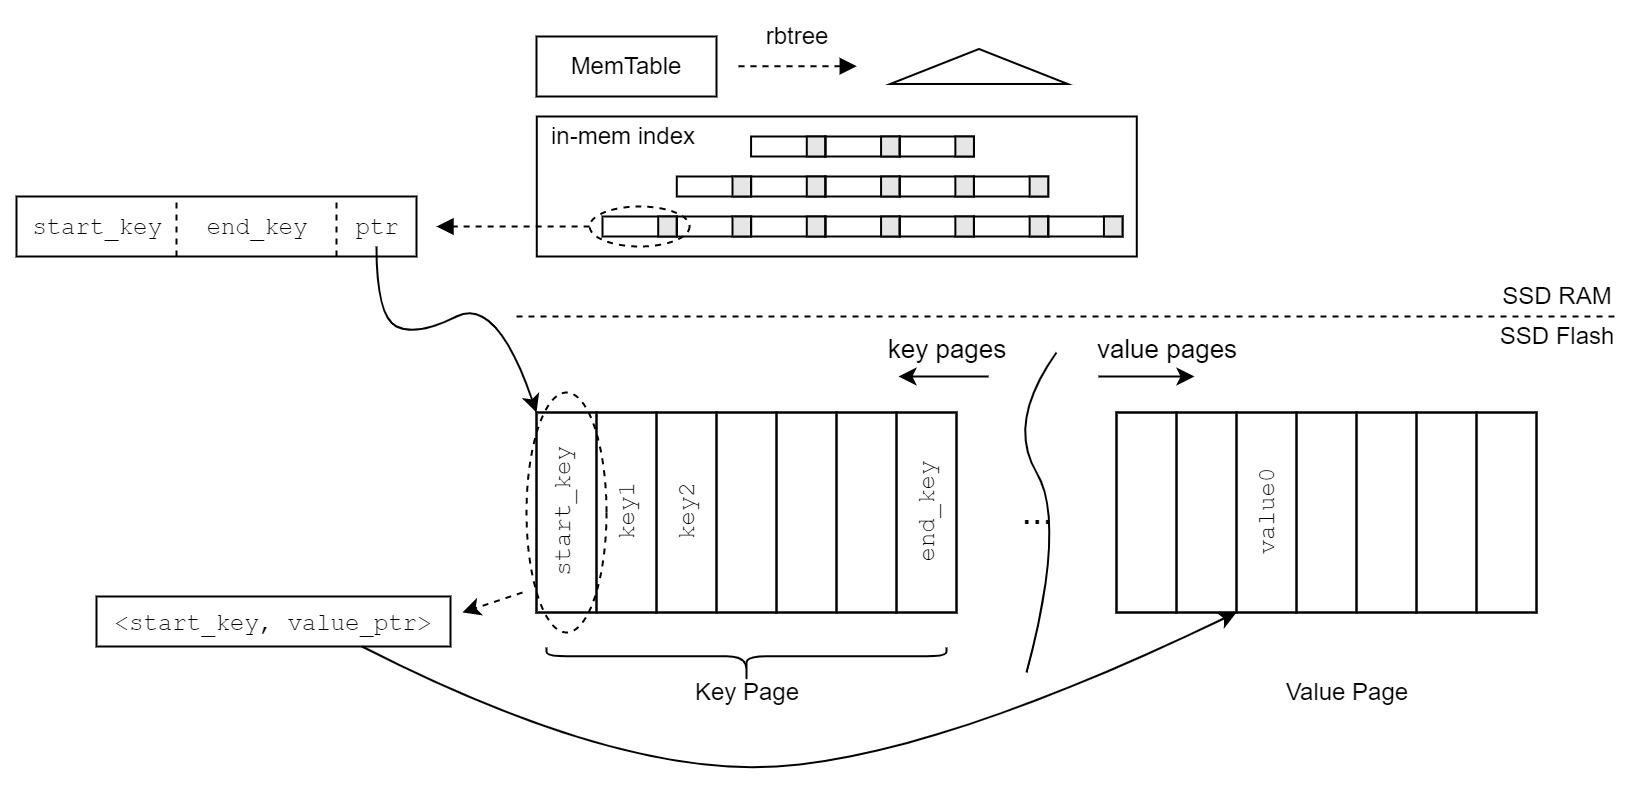
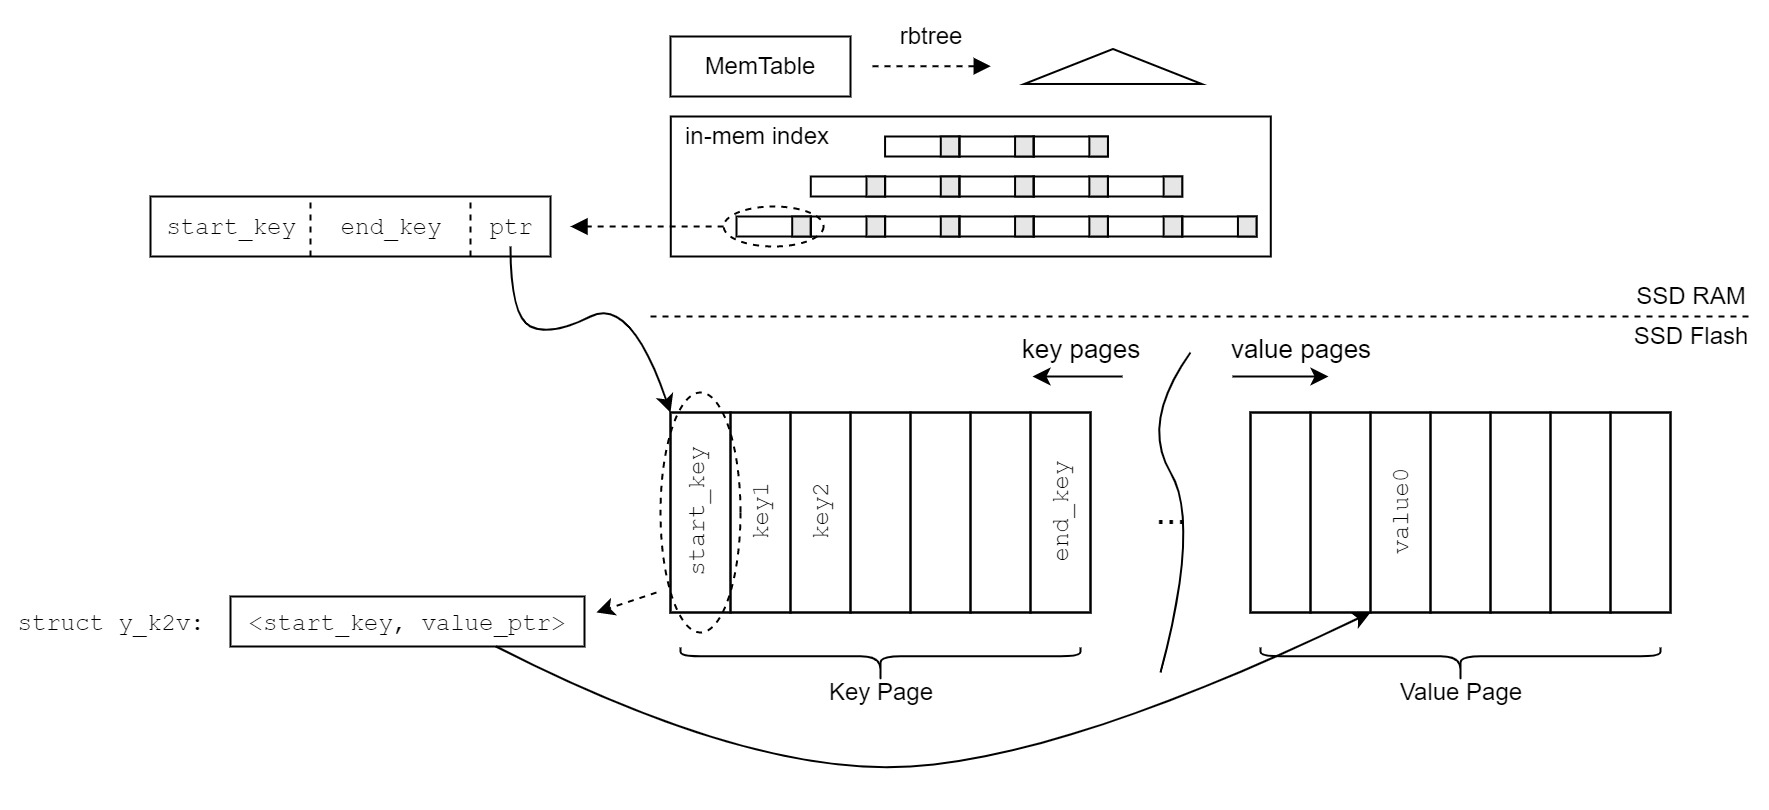
feat: bloom_filter, disk layout
determine the in-storage representation of used data structures

diff --git a/yssd/yssd.c b/yssd/yssd.c
@@ -11,18 +11,19 @@
 #include <linux/rbtree.h>
 #include "types.h"
 
-#ifndef SECTOR_SIZE
-#define SECTOR_SIZE 512
-#endif
-
 #define YSSD_MAJOR 240
 #define YSSD_DEV_NAME "yssd"
 
 static unsigned long n_sectors;
+static unsigned long n_bytes;
+static unsigned long n_pages;
 
 static char* yssd_file = "yssd.data";
 module_param(yssd_file, charp, 0660);
 MODULE_PARM_DESC(yssd_file, "file to be treated as a pseudo ssd");
+
+static struct file* fp;
+static char g_buf[PAGE_SIZE+1];
 
 static struct yssd_block_dev {
     int yssd_number;
@@ -74,6 +75,71 @@ static int y_bio_get_first_block(char* buf, unsigned int max_len, const struct y
     print_y_key(key);
     strcpy(buf, "This is first block.");
     return 0;
+}
+
+static void yssd_read_phys_page(char* buf, unsigned long page_no){
+    loff_t off=page_no*PAGE_SIZE;
+    size_t sz;
+    if(likely(page_no<n_pages)){
+        sz = kernel_read(fp, buf, PAGE_SIZE, &off);
+        if(unlikely(sz != PAGE_SIZE)){
+            pr_warn("kernel_read %ld bytes != PAGE_SIZE\n", sz);
+        }
+        return;
+    } else {
+        pr_warn("page_no %ld >= n_pages(%ld)\n", page_no, n_pages);
+    }
+}
+
+static void yssd_write_phys_page(char* buf, unsigned long page_no){
+    loff_t off=page_no*PAGE_SIZE;
+    size_t sz;
+    if(likely(page_no<n_pages)){
+        sz = kernel_write(fp, buf, PAGE_SIZE, &off);
+        if(unlikely(sz != PAGE_SIZE)){
+            pr_warn("kernel_read %ld bytes != PAGE_SIZE\n", sz);
+        }
+        return;
+    } else {
+        pr_warn("page_no %ld >= n_pages(%ld)\n", page_no, n_pages);
+    }
+}
+
+static int yssd_load_file(void){
+    loff_t off=0;
+    ssize_t sz;
+    char* full_path;
+
+    fp = filp_open(yssd_file, O_RDWR, 0644);
+    if(IS_ERR(fp)){
+        pr_err("failed to open file: %s\n", yssd_file);
+        return -EIO;
+    }
+
+    full_path = dentry_path_raw(fp->f_path.dentry, g_buf, PAGE_SIZE);
+    pr_info("file path: %s\n", full_path);
+    n_bytes = i_size_read(file_inode(fp));
+    n_sectors = n_bytes/SECTOR_SIZE;
+    n_pages = n_bytes/n_pages;
+    pr_info("Total space: %ld MB\n", n_bytes/(1<<20));
+    pr_info("n_sectors: %ld \n", n_sectors);
+    pr_info("n_pages: %ld MB\n", n_pages);
+
+    
+    sz = kernel_write(fp, "This is first block.", 20, &off);
+    pr_info("bytes wrote: %ld\n", sz);
+    pr_info("off after wrote: %lld\n", off);
+    off = 0;
+    sz = kernel_read(fp, g_buf, PAGE_SIZE, &off);
+    pr_info("bytes read: %ld\n", sz);
+    pr_info("off after read: %lld\n", off);
+    pr_info("g_buf after read: %s\n", g_buf);
+
+    return 0;
+}
+
+static void yssd_close_file(void){
+    filp_close(fp, NULL);
 }
 
 static blk_qc_t y_make_request(struct request_queue* q, struct bio* bio){
@@ -175,7 +241,6 @@ static void delete_block_dev(struct yssd_block_dev* dev){
     }
 }
 
-
 static int __init yssd_init(void)
 {
     int res;
@@ -195,6 +260,8 @@ static int __init yssd_init(void)
         return res;
     }
 
+    yssd_load_file();
+
     pr_info("YSSD init\n");
 
     return 0;
@@ -204,6 +271,7 @@ static void __exit yssd_exit(void)
 {
     delete_block_dev(&block_device);
     unregister_blkdev(YSSD_MAJOR, YSSD_DEV_NAME);
+    yssd_close_file();
     pr_info("YSSD exit\n");
 }
 

diff --git a/yssd/types.h b/yssd/types.h
@@ -2,11 +2,19 @@
 #define YSSD_TYPES_H
 
 #include <linux/printk.h>
+#include <asm/page_types.h>
 
-enum y_key_type {
-    METADATA,
-    DATA
-};
+#ifndef SECTOR_SIZE
+#define SECTOR_SIZE 512
+#endif
+
+#define Y_PAGE_SIZE  PAGE_SIZE          // 4KB minimum r/w unit
+#define Y_BLOCK_SIZE (Y_PAGE_SIZE<<3)   // 64KB
+#define Y_TABLE_SIZE (Y_BLOCK_SIZE*32)  // 2MB
+
+#define Y_KV_SUPERBLOCK ('s')
+#define Y_KV_META       ('m')
+#define Y_KV_DATA       ('d')
 
 enum y_io_req_type{
     GET,        // GET
@@ -28,9 +36,25 @@ enum y_txn_status {
 };
 
 struct y_key {
-    enum y_key_type typ;
+    char typ;
     unsigned int ino;
-    char name[120];
+    char name[250];
+};
+
+struct y_value {
+    unsigned int len;
+    char *buf;
+};
+
+struct y_val_ptr {
+    unsigned int page_no;
+    unsigned int len;
+    unsigned int off;
+};
+
+struct y_k2v {
+    struct y_key key;
+    struct y_val_ptr ptr;
 };
 
 struct y_io_req {
@@ -51,7 +75,7 @@ struct y_io_req {
     };
 };
 
-#define print_y_key(key) {pr_info("%s:%d%s%s\n", key->typ==METADATA?"m":"d", key->ino, (key->name[0]!='\0'?":":""), key->name);}
+#define print_y_key(key) {pr_info("%c:%d%s%s\n", key->typ, key->ino, (key->name[0]!='\0'?":":""), key->name);}
 #define sprint_y_key(buf, key) {snprintf(buf, sizeof(struct y_key)+24, "%s:%d%s%s", key->typ==METADATA?"m":"d", key->ino, (key->name[0]!='\0'?":":""), key->name);}
 
 int y_key_cmp(struct y_key *left, struct y_key *right);

diff --git a/yssd/bloom_filter.c b/yssd/bloom_filter.c
@@ -1,0 +1,46 @@
+#include "bloom_filter.h"
+#include "linux/slab.h"
+
+unsigned long sdbm_hash(const unsigned char *str)
+{
+    unsigned long hash = 0;
+    int c;
+    while (c = *str++)
+        hash = c + (hash << 6) + (hash << 16) - hash;
+    return hash;
+}
+
+struct bloom_filter* bloom_alloc(void){
+    struct bloom_filter* bf = kmalloc(sizeof(struct bloom_filter), GFP_KERNEL);
+    memset(bf, 0, sizeof(struct bloom_filter));
+    return bf;
+}
+
+void bloom_add(struct bloom_filter* bf, const char* key){
+    unsigned long hash = sdbm_hash(key);
+    unsigned long delta;
+    int i;
+    unsigned long bit;
+    delta = (hash >> 33) | (hash << 31);
+    for(i=0;i<Y_BLOOM_K;++i)
+    {
+        bit = hash % Y_BLOOM_M;
+        bf->array[bit>>3] |= (0b1<<(bit & (0b111)));
+        hash += delta;
+    }
+}
+
+int bloom_contains(struct bloom_filter* bf, const char* key){
+    unsigned long hash = sdbm_hash(key);
+    unsigned long delta;
+    int i;
+    unsigned long bit;
+    delta = (hash >> 33) | (hash << 31);
+    for(i=0;i<Y_BLOOM_K;++i)
+    {
+        bit = hash % Y_BLOOM_M;
+        if((bf->array[bit>>3] & (0b1<<(bit & (0b111))))==0) return 0;
+        hash += delta;
+    }
+    return 1;
+}

diff --git a/yssd/bloom_filter.h b/yssd/bloom_filter.h
@@ -1,0 +1,20 @@
+#ifndef YSSD_BLOOM_FILTER_H
+#define YSSD_BLOOM_FILTER_H
+
+#define Y_BLOOM_K 3
+#define Y_BLOOM_N 2048  // about 2048 K2V in a block
+#define Y_BLOOM_F 4     // m/n
+#define Y_BLOOM_M Y_BLOOM_F*Y_BLOOM_N
+#define Y_BLOOM_SIZE_BYTES Y_BLOOM_M >> 3
+
+struct bloom_filter{
+    char array[Y_BLOOM_SIZE_BYTES];
+};
+
+struct bloom_filter* bloom_alloc(void);
+
+void bloom_add(struct bloom_filter* bf, const char* key);
+
+int bloom_contains(struct bloom_filter* bf, const char* key);
+
+#endif

diff --git a/yssd/lsmtree.h b/yssd/lsmtree.h
@@ -1,0 +1,14 @@
+#ifndef YSSD_LSMTREE_H
+#define YSSD_LSMTREE_H
+#include "rbkv.h"
+#include "skiplist.h"
+
+struct lsm_tree {
+    unsigned int last_k2v_page_no;
+    unsigned int last_val_page_no;
+
+    struct rb_root mem_table;
+    struct skip_list *skip_list;
+};
+
+#endif

diff --git a/yfs/inode.c b/yfs/inode.c
@@ -61,5 +61,5 @@ out:
         return NULL;
     }
     // TODO: set inode attributes
-    return inode
+    return inode;
 }

diff --git a/yssd/lsmtree.c b/yssd/lsmtree.c
@@ -1,0 +1,1 @@
+#include "lsmtree.h"

diff --git a/README.md b/README.md
@@ -12,6 +12,26 @@ yssd is responsible for indexing KV objects and transaction management.
 
 ![](./docs/assets/overview.jpg)
 
-# yssd
+# YSSD
 
 ![](./docs/assets/yssd.jpg)
+
+## Disk layout
+
+![](./docs/assets/disk_layout.jpg)
+
+## Table layout
+
+![](./docs/assets/table_layout.jpg)
+
+### Meta block
+
+![](./docs/assets/meta_block.jpg)
+
+## Page layout
+
+![](./docs/assets/page_layout.jpg)
+
+## K2V index
+
+![](./docs/assets/k2v_index.jpg)
